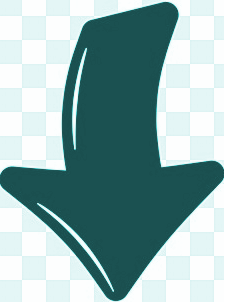
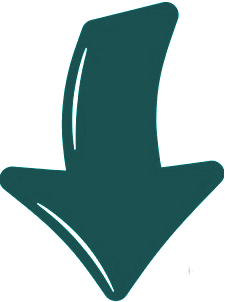
nicer (transparent) button images

diff --git a/src/homa.py b/src/homa.py
@@ -3594,7 +3594,7 @@ class Application(DeviceCommonSelf, tk.Toplevel):
         # Button images
         self.img_suspend = img.tk_image("lightning_bolt.png", 26, 26)
         self.img_flame = img.tk_image("flame.png", 26, 26)  # Sensors
-        self.img_help = img.tk_image("help.png", 26, 26)
+        self.img_help = img.tk_image("mag_glass.png", 26, 26)
         self.img_wifi = img.tk_image("wifi.png", 26, 26)  # Devices
 
         # Right-click popup menu images common to all devices
@@ -3602,7 +3602,7 @@ class Application(DeviceCommonSelf, tk.Toplevel):
         self.img_turn_on = img.tk_image("turn_on.png", 42, 26)
         self.img_up = img.tk_image("up.png", 22, 26)
         self.img_down = img.tk_image("down.png", 22, 26)  # Move down & Minimize
-        self.img_close = img.tk_image("close.jpeg", 26, 22)  # Also close button
+        self.img_close = img.tk_image("close.png", 26, 26)  # Also close button
 
         # Right-click popup menu images for Sony TV Picture On/Off
         self.img_picture_on = img.tk_image("picture_on.png", 42, 26)

diff --git a/src/toolkit.py b/src/toolkit.py
@@ -5147,6 +5147,10 @@ class ToolTips(CommonTip):
                 if self.print_error:
                     print(self.who + ".process_tip():",
                           "self.tip.window doesn't exist")
+                    try:
+                        print(self.widget['text'])
+                    except KeyError:
+                        pass  # Some parents don't have text attribute
                 return
 
         ''' Pending event to start displaying tooltip balloon? '''
